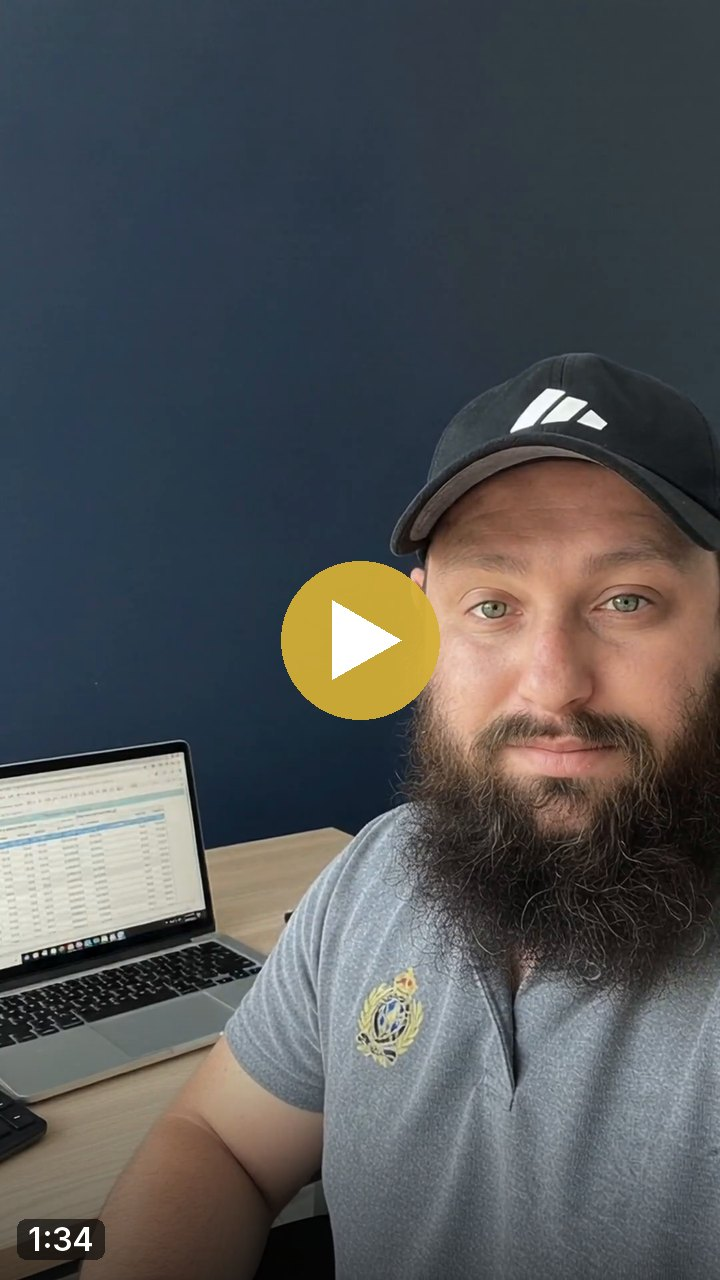
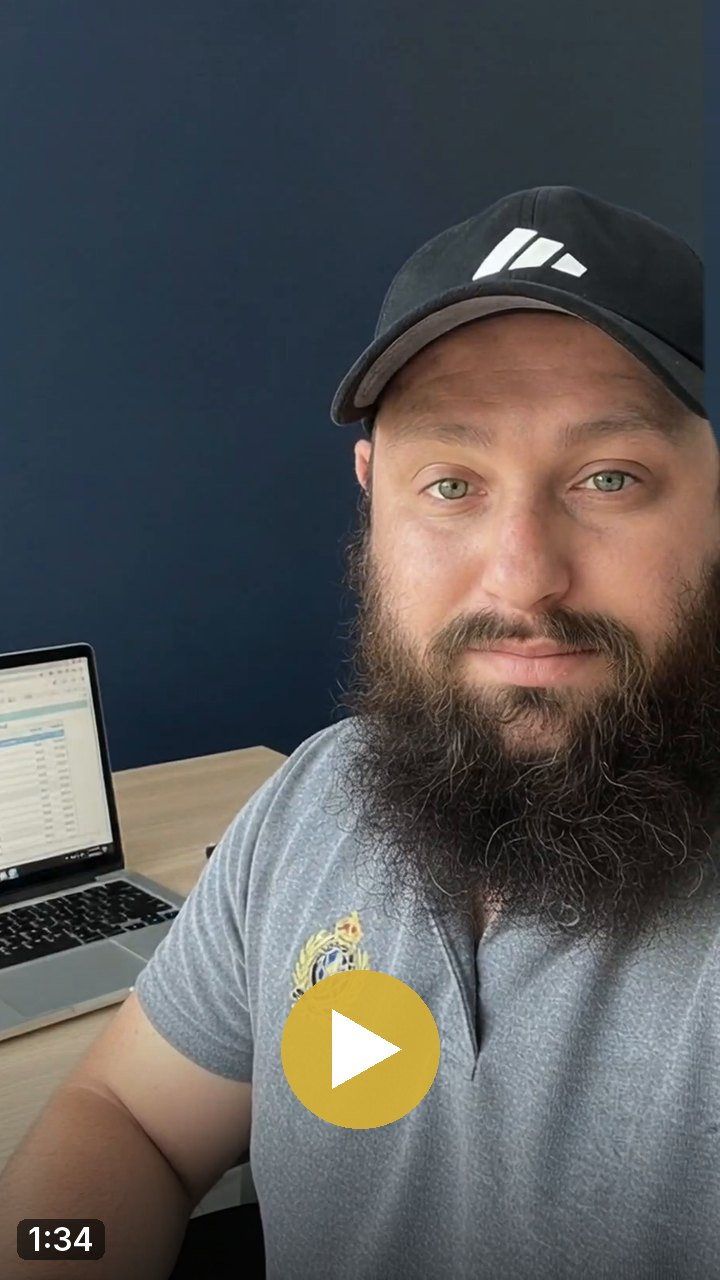
/grow: Ladder restructure (hero, 3 offer cards, poster re-crop, mobile hero fit) (#12)
* /grow: Ladder restructure (hero, 3 offer cards, poster re-crop, mobile hero fit)

* grow: link join-the-group to live Skool URL

---------

diff --git a/grow.html b/grow.html
@@ -8,41 +8,54 @@
 <meta charset="utf-8">
 <meta name="viewport" content="width=device-width, initial-scale=1">
 <title>More booked jobs. Not more hours. | Next Lever</title>
-<meta name="description" content="Done-for-you growth for service businesses. Book a Free Discovery Call, get a Growth Map, then we build it or you do.">
+<meta name="description" content="Growth for service businesses. Book a Free Discovery Call, get a Growth Map, or join the group.">
 <link rel="canonical" href="https://nextleverhq.com/grow">
 <link rel="icon" href="assets/logo.jpg">
 <link rel="stylesheet" href="assets/site.css">
 <script src="assets/config.js"></script>
 <script src="/assets/ga.js"></script>
 <style>
-/* Draft-only: the live site.css later overrides .steps for the booked page, so the three how-it-works cards use this class instead. Visuals match the original card steps. */
-.howto{list-style:none;padding:0;display:grid;gap:18px;grid-template-columns:1fr;margin:24px 0 0}
-.howto li{background:#fff;border:1px solid var(--line);border-radius:12px;padding:18px;margin:0;position:relative}
-.howto .ico{display:flex;width:52px;height:52px;border-radius:50%;background:var(--navy);color:var(--accent);align-items:center;justify-content:center;margin-bottom:10px}
-.howto .num{font-weight:800;color:#B45309;font-size:.9rem;letter-spacing:.05em;margin-bottom:6px}
-@media(min-width:760px){
-  .howto{grid-template-columns:repeat(3,1fr)}
-  .howto li:not(:last-child):after{content:"";position:absolute;top:44px;right:-19px;width:20px;height:2px;background:var(--accent)}
-}
 .cta-block{text-align:center}
 .cta-block .btn{margin:8px 0 0}
-.group-link{margin:16px 0 0;font-size:.95rem}
+.group-link{margin:8px 0 0;font-size:.95rem;color:var(--muted,#64748b)}
 .group-link a{color:inherit;font-weight:700}
 #audit{margin-top:28px;text-align:left}
-.hero-head{display:flex;flex-direction:column;align-items:center;gap:16px}
+.hero-head{display:flex;flex-direction:column;align-items:center}
 .hero-head h1{margin:0}
-.hero-photo{flex:0 0 auto;width:112px;height:112px;border-radius:50%;overflow:hidden;border:3px solid #F59E0B;background:#1e293b}
-.hero-photo img{width:100%;height:100%;object-fit:cover;display:block}
-.grow-vsl{margin:6px auto 18px;width:100%;max-width:380px}
+.grow-vsl{margin:14px auto 0;width:100%;max-width:380px}
 .grow-vsl .vsl-frame{aspect-ratio:9/16;border-radius:12px;background:#020617}
 .grow-vsl .vsl-frame video{position:absolute;inset:0;width:100%;height:100%;object-fit:contain;display:block;background:#020617}
-.hero-cta{margin:0 auto}
-.cta-sub{margin:12px auto 0;max-width:560px;font-size:15px;color:#cbd5e1;text-align:center}
-@media(min-width:640px){.hero-head{flex-direction:row;justify-content:center;gap:28px;text-align:left}.hero-photo{width:150px;height:150px}}
+.hero-cta{margin:4px auto 0}
+.cta-sub{margin:8px auto 0;max-width:560px;font-size:14px;color:#cbd5e1;text-align:center}
 video.poster-play{cursor:pointer}
-.hiw-video{max-width:760px;margin:28px auto 0}
-.hiw-cta{text-align:center;margin:24px auto 0}
-.hiw-video video{display:block;width:100%;height:auto;border-radius:12px;background:#020617;box-shadow:0 10px 30px rgba(0,0,0,.18)}
+.ladder-wrap{padding-top:8px}
+.ladder{list-style:none;padding:0;margin:0;display:grid;gap:18px;grid-template-columns:1fr}
+.ladder li{background:#fff;border:1px solid var(--line);border-top:4px solid var(--accent);border-radius:12px;padding:22px 20px;margin:0;display:flex;flex-direction:column}
+.ladder li.primary{box-shadow:0 8px 24px rgba(15,23,42,.10)}
+.ladder .rung{font-weight:800;color:#B45309;font-size:.8rem;letter-spacing:.06em;text-transform:uppercase;margin:0 0 8px}
+.ladder h2{margin:0 0 10px;font-size:1.35rem}
+.ladder p{margin:0 0 10px}
+.ladder .btn{margin-top:auto}
+.ladder-note{text-align:center;margin:22px auto 0;max-width:640px;font-weight:600}
+@media(max-width:760px){
+  .hero{padding:12px 0 16px!important}
+  .vsl-line{margin:10px auto 8px}
+  .cta-sub{margin:6px auto 0}
+  .grow-vsl{margin:8px auto 0;width:auto;max-width:100%;display:flex;justify-content:center}
+  .grow-vsl .vsl-frame{width:auto;height:56vh;max-height:56vh;max-width:100%;aspect-ratio:9/16;margin:0 auto}
+  .grow-vsl .vsl-frame video{object-fit:cover}
+}
+@media(min-width:760px){.ladder{grid-template-columns:repeat(3,1fr);align-items:stretch}}
+@media(min-width:900px){
+  .hero-intro{display:grid;grid-template-columns:minmax(280px,1fr) 360px;column-gap:56px;align-items:center;text-align:left}
+  .hero-copy{max-width:560px}
+  .hero-head{align-items:flex-start}
+  .hero-head h1{text-align:left}
+  .vsl-line{margin:14px 0 18px;text-align:left}
+  .hero-cta{margin:0}
+  .cta-sub{margin:10px 0 0;text-align:left}
+  .grow-vsl{margin:0;max-width:360px}
+}
 </style>
 </head>
 <body>
@@ -52,20 +65,49 @@ video.poster-play{cursor:pointer}
 <section class="hero">
   <div class="wrap wide vsl-top">
     <div class="hero-intro">
+      <div class="hero-copy">
       <div class="hero-head">
-        <div class="hero-photo"><picture><source srcset="assets/founder.webp" type="image/webp"><img src="assets/founder.jpg" alt="Michael Reichlen, founder of Next Lever" width="400" height="400"></picture></div>
         <h1>More booked jobs.<br>Not more hours.</h1>
       </div>
-      <p class="vsl-line">Growth advisor for service businesses. I find the one thing holding you back, then build the fix.</p>
-      <div class="vsl grow-vsl"><div class="vsl-frame"><video class="poster-play" tabindex="0" playsinline preload="none" poster="assets/grow-vsl-v2-poster.jpg" width="720" height="1280" aria-label="More booked jobs, not more hours. 1-minute 39-second video with captions"><source src="assets/grow-vsl-v2-9x16.mp4" type="video/mp4"></video></div></div>
+      <p class="vsl-line">Growth advisor for service businesses. I find the one thing holding you back, then map the exact fix to turn on.</p>
       <a class="btn hero-cta" href="#audit">Book a free discovery call</a>
-      <p class="cta-sub">15 minutes. You leave with your Gap Note — the one thing I'd fix first, in writing.</p>
+      <p class="cta-sub">20 min · you leave with your Gap Note</p>
+      </div>
+      <div class="vsl grow-vsl"><div class="vsl-frame"><video class="poster-play" tabindex="0" playsinline preload="none" poster="assets/grow-vsl-v2-poster.jpg?v=3" width="720" height="1280" aria-label="More booked jobs, not more hours. 1-minute 39-second video with captions"><source src="assets/grow-vsl-v2-9x16.mp4" type="video/mp4"></video></div></div>
     </div>
   </div>
 </section>
 
-<!-- 2. Who it's for -->
-<section class="alt">
+
+<!-- 2. Ladder offer blocks (t115u) -->
+<section class="alt ladder-wrap" id="offers">
+  <div class="wrap wide">
+    <ul class="ladder">
+      <li class="primary">
+        <div class="rung">The Call</div>
+        <h2>20 minutes. One gap, in writing.</h2>
+        <p>Tell me how work comes in and where it stalls. No prep needed. You leave with your Gap Note — what's costing you and what I'd fix first. Free.</p>
+        <a class="btn" href="#audit">Book the call</a>
+      </li>
+      <li>
+        <div class="rung">The Map</div>
+        <h2>The whole business, mapped.</h2>
+        <p>45 minutes + a written Growth Map next business day. Month 1 of the group included.</p>
+        <a class="btn" href="#audit">Ask about the map (on the call)</a>
+      </li>
+      <li id="join-the-group">
+        <div class="rung">The Group</div>
+        <h2>A room with me in it every week.</h2>
+        <p>Weekly live Q&amp;A, your Gap Note in 48 hrs, setup guides for tools you already pay for. $50/mo — first 25 locked for life.</p>
+        <a class="btn" href="https://www.skool.com/next-lever-growth-7028/about" target="_blank" rel="noopener">Join the group</a>
+      </li>
+    </ul>
+    <p class="ladder-note">Next 4-week cohort opens January. Map buyers get $500 off.</p>
+  </div>
+</section>
+
+<!-- 3. Who it's for -->
+<section>
   <div class="wrap week">
     <h2>Who this is for</h2>
     <p>Service businesses that run on an inbox and a good memory.</p>
@@ -73,37 +115,11 @@ video.poster-play{cursor:pointer}
     <ul class="pains">
       <li><span class="nic">Bookkeeping / tax</span>"I spend my nights chasing clients for documents."</li>
       <li><span class="nic">Marketing agency</span>"Every client report eats a whole afternoon."</li>
-      <li><span class="nic">Coaching / consulting</span>"Discovery calls end and nobody follows up."</li>
-      <li><span class="nic">Recruiting</span>"Good candidates go cold while I'm buried in scheduling."</li>
+      <li><span class="nic">Home services / trades</span>"Quotes go out and nobody follows up until they've hired someone else."</li>
+      <li><span class="nic">Contractors / field service</span>"Missed calls while we're on a job turn into dead leads."</li>
       <li><span class="nic">Property management</span>"Tenant requests pile up in my inbox faster than I can answer."</li>
       <li><span class="nic">Real estate</span>"Leads text at 9pm and by morning they've signed with someone else."</li>
     </ul>
-  </div>
-</section>
-
-<!-- 3. How it works -->
-<section>
-  <div class="wrap wide">
-    <h2 class="center">How it works</h2>
-    <ol class="howto">
-      <li>
-        <span class="ico" aria-hidden="true"><svg viewBox="0 0 24 24" width="28" height="28" fill="none" stroke="currentColor" stroke-width="2.2" stroke-linecap="round"><circle cx="10" cy="10" r="6"/><path d="M15 15l5 5"/></svg></span>
-        <div class="num">1</div>
-        <strong>A Free Discovery Call.</strong> You tell us how work comes in and where it stalls. No prep needed. 15 minutes. You leave with your Gap Note — the one thing I'd fix first, in writing.
-      </li>
-      <li>
-        <span class="ico" aria-hidden="true"><svg viewBox="0 0 24 24" width="28" height="28" fill="none" stroke="currentColor" stroke-width="2.2" stroke-linecap="round" stroke-linejoin="round"><path d="M14.5 5.5a4 4 0 0 0 5 5l-9 9a2 2 0 0 1-3-3l9-9a4 4 0 0 1-2-2z"/></svg></span>
-        <div class="num">2</div>
-        <strong>A Growth Map.</strong> You leave with a clear picture of what's holding booked jobs back, and what to do first.
-      </li>
-      <li>
-        <span class="ico" aria-hidden="true"><svg viewBox="0 0 24 24" width="28" height="28" fill="none" stroke="currentColor" stroke-width="2.2" stroke-linecap="round" stroke-linejoin="round"><path d="M4 12a8 8 0 0 1 14-5.3M20 4v4h-4"/><path d="M20 12a8 8 0 0 1-14 5.3M4 20v-4h4"/></svg></span>
-        <div class="num">3</div>
-        <strong>We build it, or you do.</strong> You choose. We can build it with you, or you can run the map yourself.
-      </li>
-    </ol>
-    <div class="hiw-video"><video class="poster-play" tabindex="0" playsinline preload="none" poster="assets/how-it-works-v3-poster.jpg" width="1920" height="1080" aria-label="How it works, 23-second video with captions"><source src="assets/how-it-works-v3.mp4" type="video/mp4"></video></div>
-    <div class="hiw-cta"><a class="btn" href="#audit">Book a free discovery call</a></div>
   </div>
 </section>
 
@@ -117,17 +133,17 @@ video.poster-play{cursor:pointer}
       <p style="margin:0 0 10px">Now I do that as a growth advisor for service businesses. Same playbook, your numbers.</p>
       <p class="attr">— Michael Reichlen, Founder</p>
     </div></div>
-    <blockquote style="margin-top:28px">If we aren't live and fixing the constraint we agreed on within 45 days of getting your access and answers, we keep working for free until we are.</blockquote>
+    <blockquote style="margin-top:28px">No pitch-fest. You leave the 20-minute call with your written Gap Note — the exact bottleneck costing you booked jobs and what to turn on first, whether we work together or not.</blockquote>
   </div>
 </section>
 
 <!-- 5. CTA -->
-<section>
+<section id="booking-form">
   <div class="wrap cta-block">
     <h2>Book a Free Discovery Call</h2>
-    <p>15 minutes. You leave with your Gap Note — the one thing I'd fix first, in writing.</p>
+    <p>20 minutes. You leave with your Gap Note — the one thing I'd fix first, in writing.</p>
     <a class="btn" href="#audit">Book a free discovery call</a>
-    <!-- PLACEHOLDER: "Join the free group" link goes here once the group exists (on hold per Michael t572u) -->
+    <p class="group-link">or <a href="https://www.skool.com/next-lever-growth-7028/about" target="_blank" rel="noopener">join the group ($50/mo)</a></p>
 
     <div id="audit">
     <div class="stepper" aria-label="Two steps"><span class="on">Step 1: tell me where to look</span><span class="off">Step 2: pick a time</span></div>
@@ -146,7 +162,7 @@ video.poster-play{cursor:pointer}
 
       <div class="field"><label for="industry">Industry</label><select id="industry" name="industry" required>
         <option value="" selected disabled>Choose one</option>
-        <option>Lending</option><option>Bookkeeping / tax</option><option>Marketing agency</option><option>Coaching / consulting</option><option>Recruiting</option><option>Property management</option><option>Real estate</option><option>Car service</option><option>Other</option>
+        <option>Lending</option><option>Bookkeeping / tax</option><option>Marketing agency</option><option>Home services / trades</option><option>Contractors / field service</option><option>Property management</option><option>Real estate</option><option>Car service</option><option>Other</option>
       </select></div>
 
       <div class="hp" aria-hidden="true">
